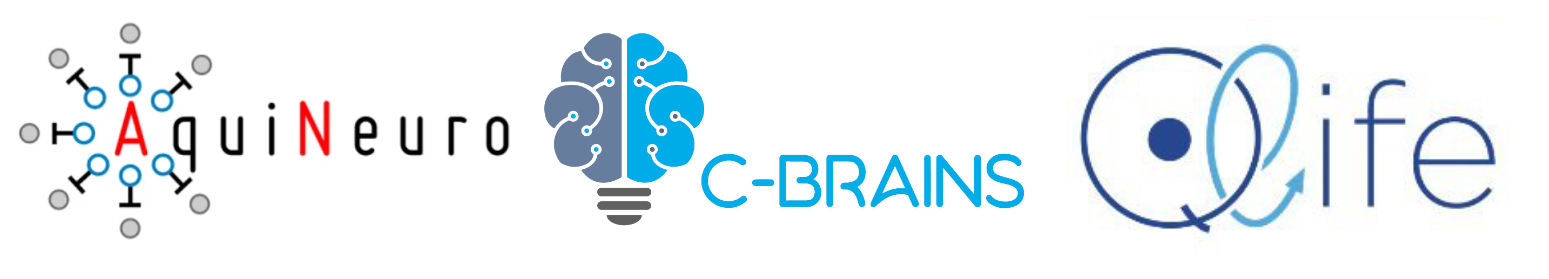
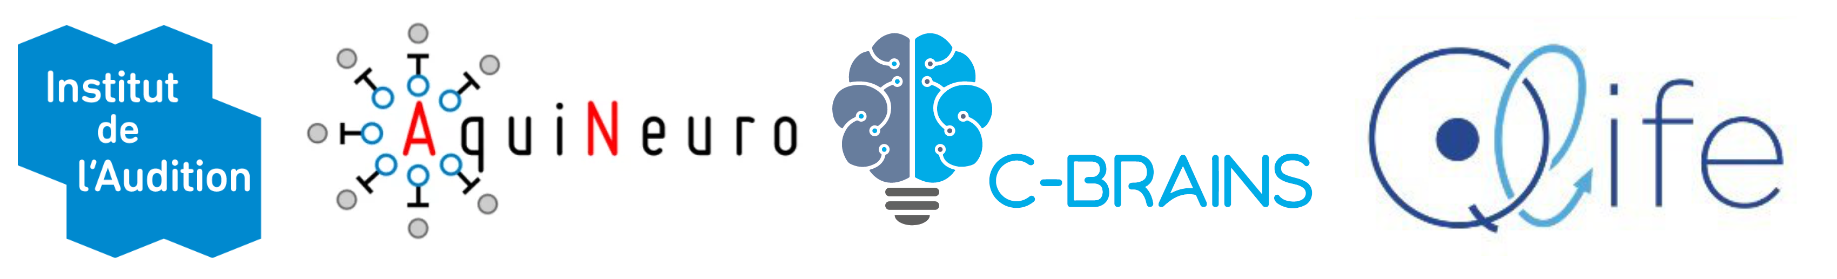
Match the brain to the accent, and take the new sponsor strip
Two home-page edits.

The brain on the "i" was coral, left over from the 2025 artwork. It sits
directly above the hero's buttons, where a second warm hue read as a second
accent colour rather than as part of one identity, so it now tracks --accent.
An SVG cannot read a CSS custom property and inlining the mark to make it
themeable would put 46KB in every page to share one hex value, so the two are
kept in step by hand and build_logo.py says so.

The sponsor banner gains Institut de l'Audition on the left. The alt text is
updated to match, though content/*.md is a seed and outage fallback only
(design-notes 3.2b) — the live copy needs the same line pasted into the Pages
tab. Note the prose still thanks "Institut de la Vision" and links to
institut-vision.org, which the new logo contradicts; left alone pending the
organizers, since it is a claim about who funds the meeting.

Changed region(s): [[0.0, 0.086, 0.9916, 0.9176], [0.2169, 0.7742, 0.2479, 0.8602]]

diff --git a/scripts/logo/build_logo.py b/scripts/logo/build_logo.py
@@ -16,7 +16,13 @@ import textpaths as tp
 HERE = Path(__file__).parent
 ASSETS = HERE / ".." / ".." / "assets"
 
-BRAIN = "#e2574c"
+# The brain on the "i" is the one recolour, and it tracks --accent in
+# css/styles.css: it sits directly above the hero's buttons, so any other hue
+# reads as a second accent colour rather than as part of the same identity.
+# Keep the two in step by hand -- an SVG cannot read a CSS custom property,
+# and inlining the mark to make it themeable would put a 46KB blob in every
+# page just to share one hex value.
+BRAIN = "#7b1e3a"
 GREY = "#808080"
 DATE = ["November 6th, 2026", "Daniel Cohen Amphitheater, ENS", "48 Bd Jourdan, 75014 Paris"]
 

diff --git a/content/home.md b/content/home.md
@@ -38,4 +38,4 @@ Already registered? [Sign in](login.html).
 We thank [majab.com](https://www.majab.com/) for designing our logo, and [Institut de la Vision](https://www.institut-vision.org/?gad_source=1&gad_campaignid=23532190238&gbraid=0AAAAA-XeQ52Ug4krC6bS88HSlP0qzvdUe), 
 [DIM C-Brains](https://dim-cbrains.fr/fr/home), [QLife](https://psl.eu/q-life) and [Aquineuro](https://aquineuro.eu/) for their generous support.
 
-![DIM C-Brains, QLife and Aquineuro](assets/sponsors/sponsors-2025.png)
+![Institut de l'Audition, AquiNeuro, DIM C-Brains and QLife](assets/sponsors/sponsors-2025.png)
